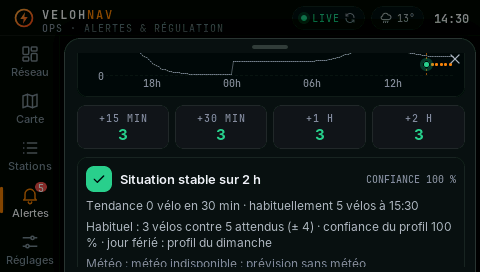
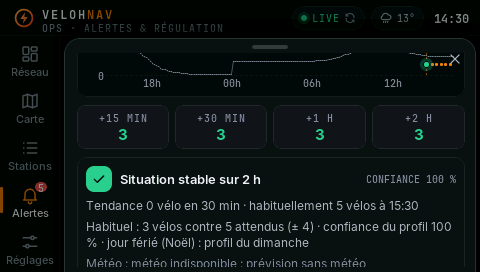
feat(ui): l'écran nomme le jour férié (« jour férié (Noël) : profil du dimanche »)
La fiche et la prévision 24 h disaient déjà « férié : profil du dimanche » ; elles disent
maintenant lequel, pour qu'un exploitant comprenne pourquoi la prévision change de forme
(« Le 25/12 est férié (Noël) : profil du dimanche. »). Captures 41 et 42 mises à jour ;
les autres captures du scénario ops sont identiques au pixel près.

Changed region(s): [[0.3125, 0.8529, 0.6562, 0.9118]]

diff --git a/sim/sim_main.cpp b/sim/sim_main.cpp
@@ -670,7 +670,7 @@ static int opsScenario(const std::string & in, StatusRec * recs, int ns) {
   run(600);
   ui::openForecast24(st); run(600);
   drag(300, 240, 300, 40, 10);
-  expect(textAny(lv_layer_top(), "Le 25/12 est f\xC3\xA9ri\xC3\xA9 : profil du dimanche", textAny), "24 h : « Le 25/12 est férié : profil du dimanche »");
+  expect(textAny(lv_layer_top(), "Le 25/12 est f\xC3\xA9ri\xC3\xA9 (No\xC3\xABl) : profil du dimanche", textAny), "24 h : « Le 25/12 est férié (Noël) : profil du dimanche »");
   shot("09_prevision_24h_ferie");
   ui::sheetClose(); run(300);
   {
@@ -686,7 +686,7 @@ static int opsScenario(const std::string & in, StatusRec * recs, int ns) {
   if (hs >= 0) {
     ui::openStation(hs); run(500);
     drag(300, 240, 300, 40, 10);
-    expect(textAny(lv_layer_top(), "jour f\xC3\xA9ri\xC3\xA9 : profil du dimanche", textAny), "fiche : « … · jour férié : profil du dimanche »");
+    expect(textAny(lv_layer_top(), "jour f\xC3\xA9ri\xC3\xA9 (No\xC3\xABl) : profil du dimanche", textAny), "fiche : « … · jour férié (Noël) : profil du dimanche »");
     shot("09b_fiche_ferie");
     ui::sheetClose(); run(300);
   }

diff --git a/src/ui/sheet_station.cpp b/src/ui/sheet_station.cpp
@@ -179,7 +179,8 @@ static void fill() {
   // Un jour férié est attendu comme un dimanche (le profil le dit, pas seulement la règle)
   if ((s.anom == vn::AN_HIGH || s.anom == vn::AN_LOW || s.anom == vn::AN_NORMAL || s.anom == vn::AN_PENDING) && g_model.holidayProfile(t)) {
     size_t l = strlen(ab);
-    snprintf(ab + l, sizeof(ab) - l, " \xC2\xB7 jour f\xC3\xA9ri\xC3\xA9 : profil du dimanche");
+    const char * hn = vn::holidayNameAt(t);
+    snprintf(ab + l, sizeof(ab) - l, " \xC2\xB7 jour f\xC3\xA9ri\xC3\xA9 (%s) : profil du dimanche", hn ? hn : "?");
   }
   lv_label_set_text(W.insAnom, ab);
   lv_obj_set_style_text_color(W.insAnom, C(ac), 0);

diff --git a/src/ui/sheet_ops.cpp b/src/ui/sheet_ops.cpp
@@ -342,7 +342,8 @@ static void fc24Fill() {
     struct tm hl;
     plat::localTime(tk, &hl);
     size_t L = strlen(b);
-    snprintf(b + L, sizeof(b) - L, " Le %02d/%02d est f\xC3\xA9ri\xC3\xA9 : profil du dimanche.", hl.tm_mday, hl.tm_mon + 1);
+    const char * hn = vn::holidayNameAt(tk);
+    snprintf(b + L, sizeof(b) - L, " Le %02d/%02d est f\xC3\xA9ri\xC3\xA9 (%s) : profil du dimanche.", hl.tm_mday, hl.tm_mon + 1, hn ? hn : "?");
     break;
   }
   lv_label_set_text(s_basis, b);
